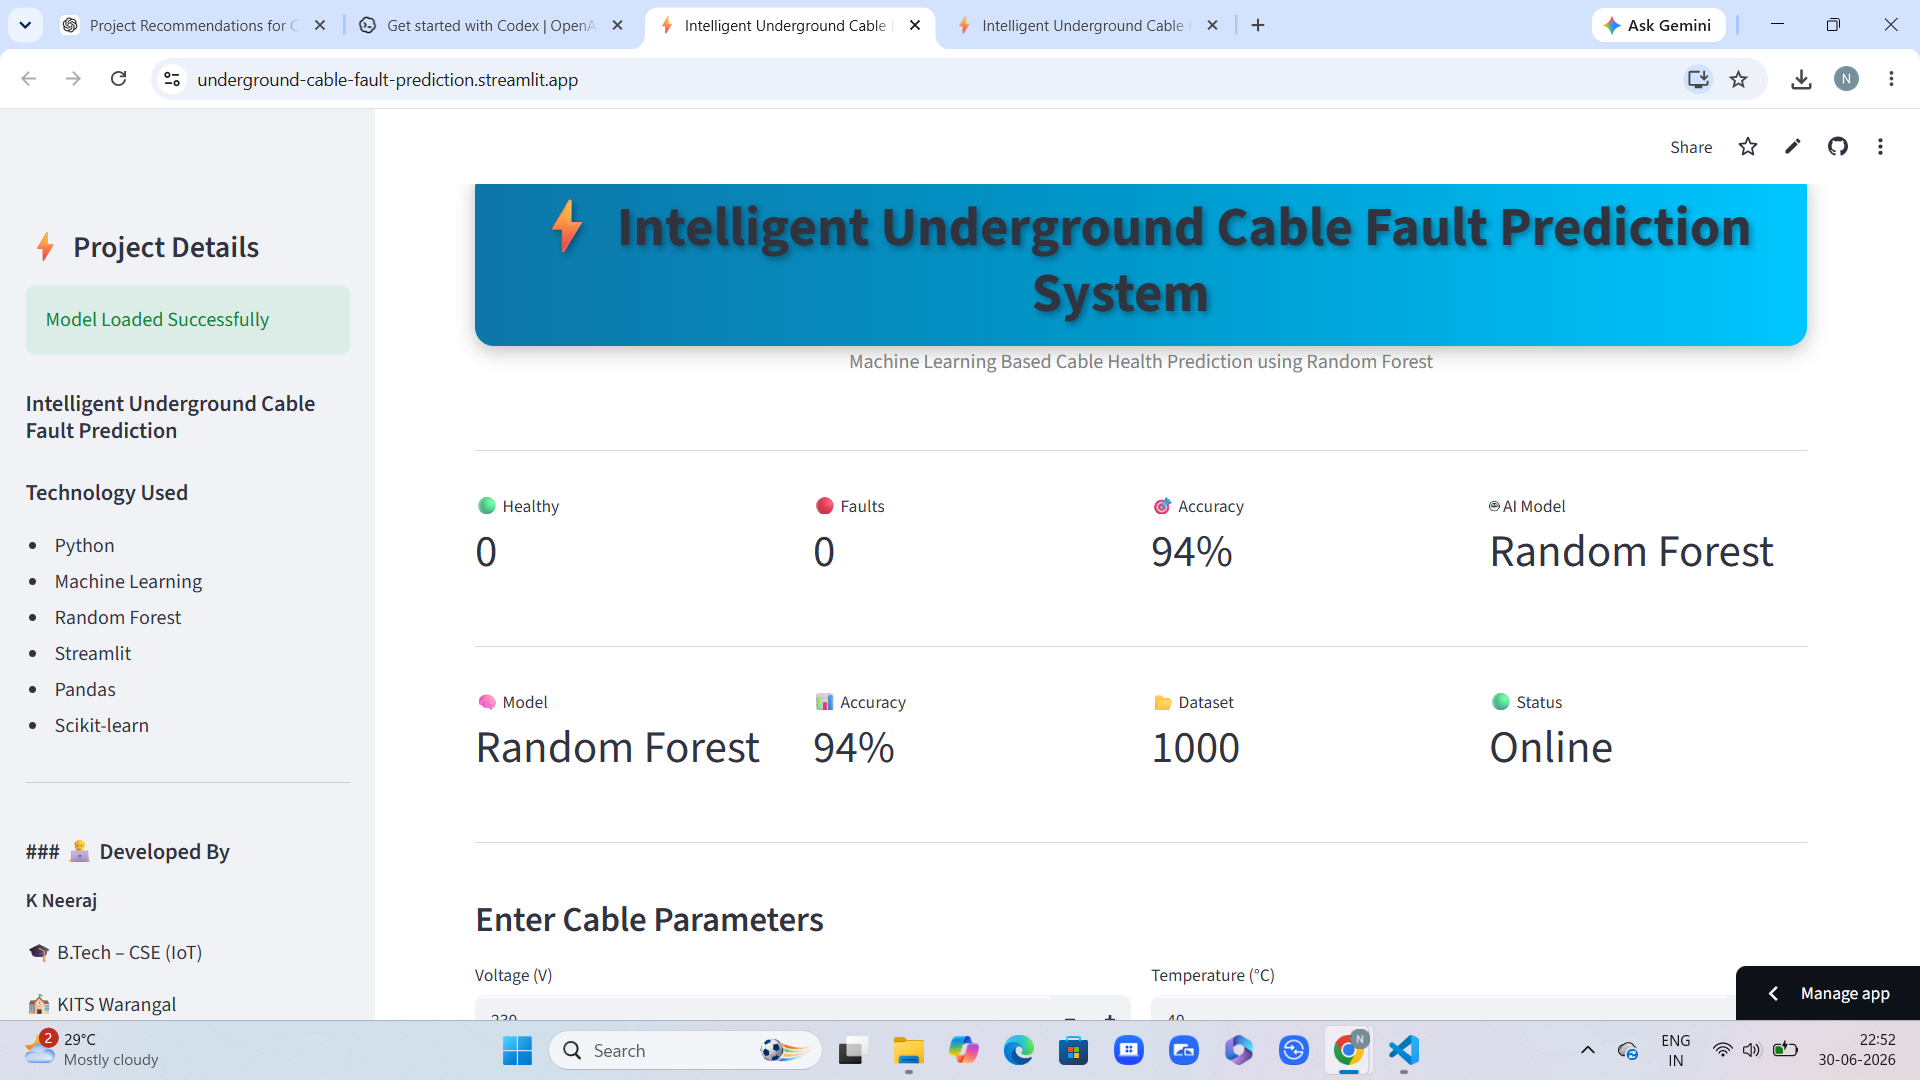
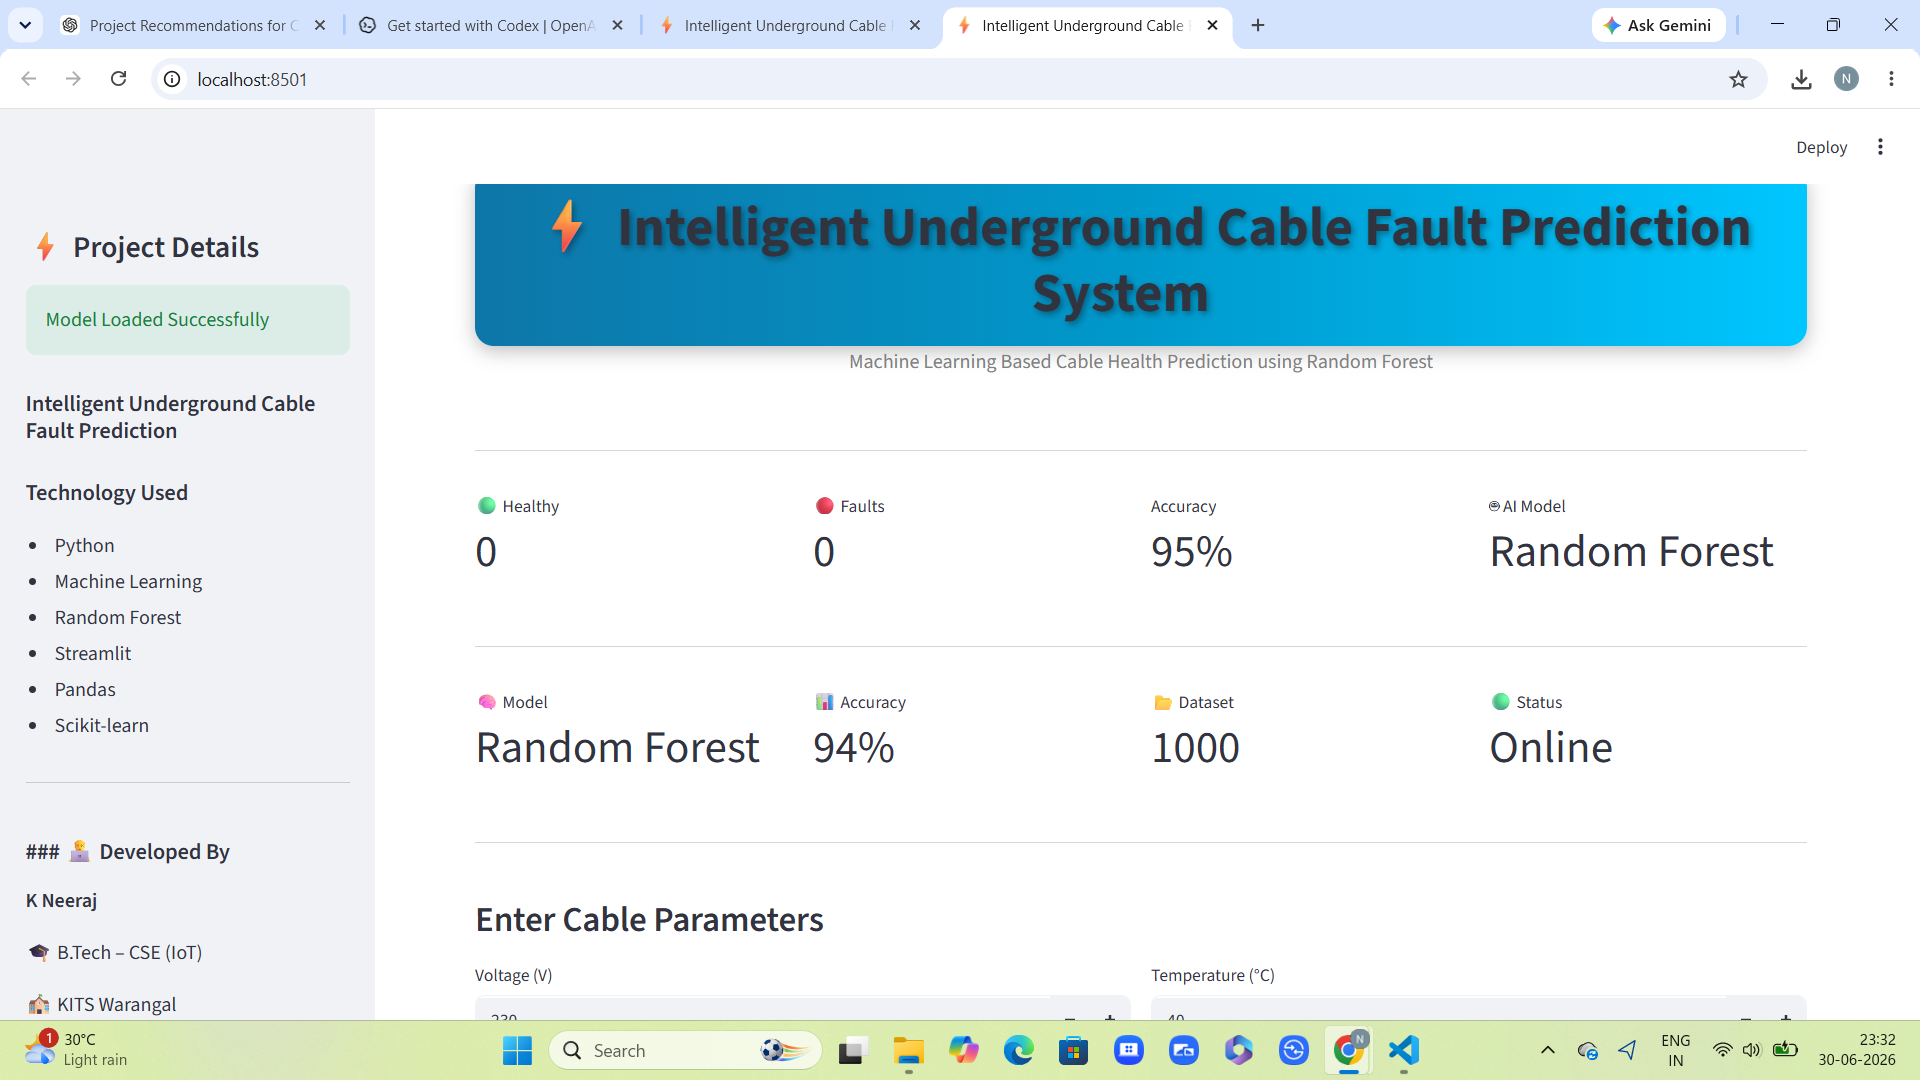
Updated homepage accuracy and refreshed screenshots

diff --git a/app.py b/app.py
@@ -215,7 +215,7 @@ with c2:
     st.metric("🔴 Faults", fault_count)
 
 with c3:
-    st.metric("🎯 Accuracy", "94%")
+    st.metric("Accuracy", "95%")
 
 with c4:
     st.metric("🤖 AI Model", "Random Forest")